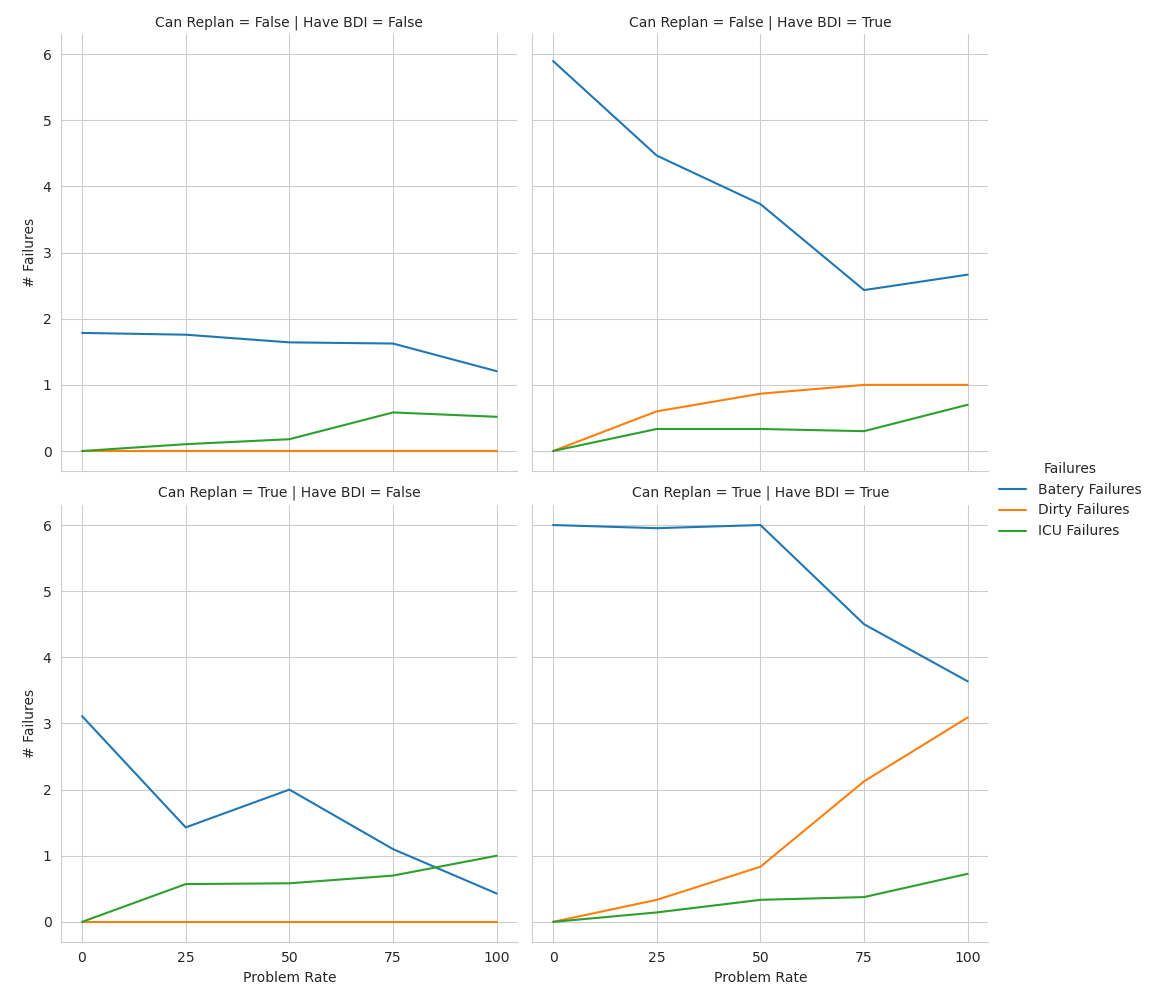
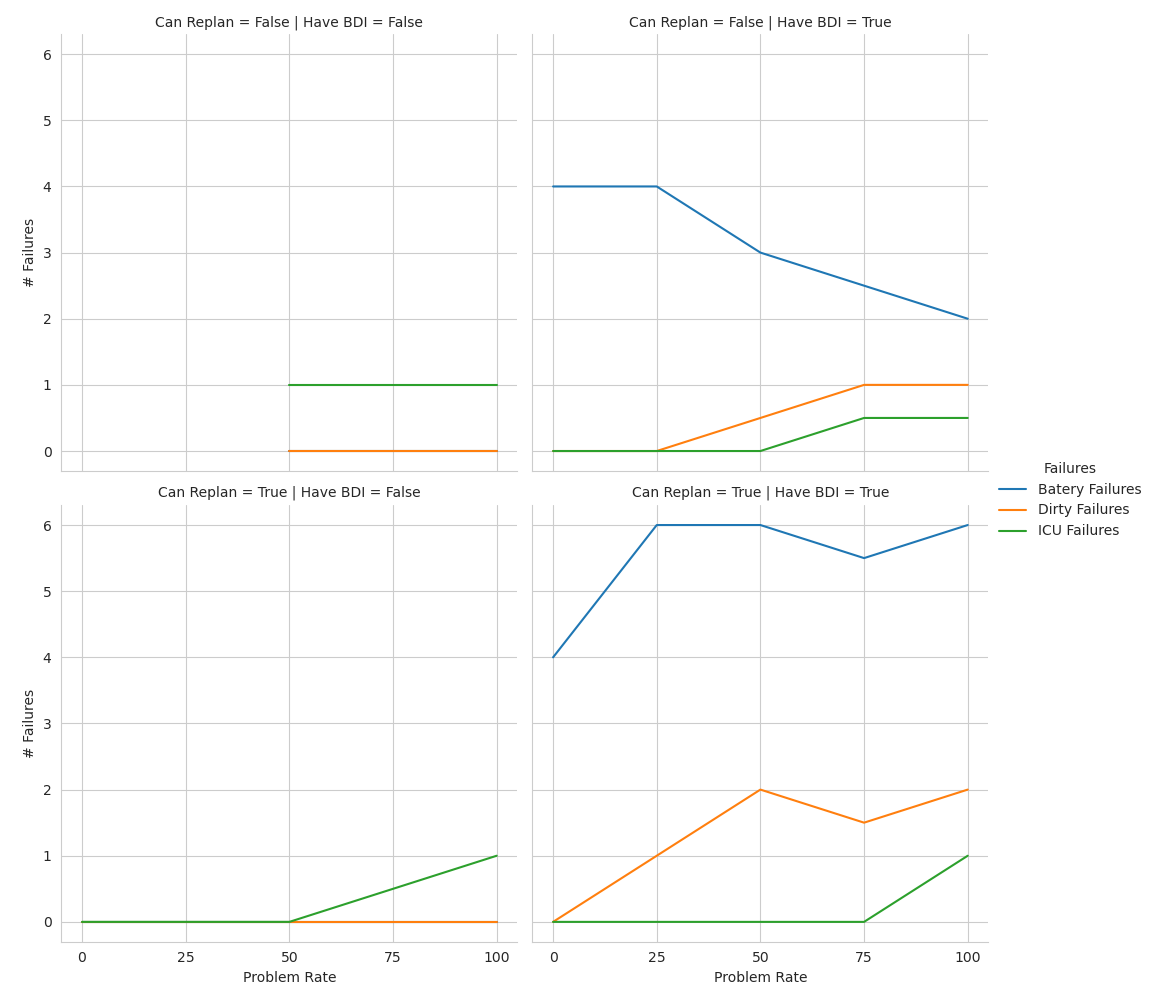
fix false plans

diff --git a/src/coordinator/coordinator/disinfect_coordinator_node.py b/src/coordinator/coordinator/disinfect_coordinator_node.py
@@ -124,6 +124,8 @@ class Coordinator(AgnosticCoordinator):
     def get_team(self, trigger) -> List[MissionRobot]:
         free_uvdrobot = next((robot for robot in self.uvdrobot if robot.status == RobotStatus.READY), None)
         free_spotrobot = next((robot for robot in self.spotrobot if robot.status == RobotStatus.READY), None)
+
+        time.sleep(1)
         
         if free_uvdrobot is not None and free_spotrobot is not None:
             nurse_name = next(
@@ -213,6 +215,9 @@ class Coordinator(AgnosticCoordinator):
                 self.stop_low_priority_mission()
                 time.sleep(1)
                 team = self.get_team(room)
+                if(team == None):
+                    self.get_logger().info("Cant make team")
+                    return
                 start_context = self.get_start_context(team, room)
                 self.create_mission(team, start_context, room)
             self.create_empty_mission(room)

diff --git a/src/murosa_plan/murosa_plan/agent.py b/src/murosa_plan/murosa_plan/agent.py
@@ -75,6 +75,13 @@ class Agent(Node):
         self.agentName = response.response
         self.get_logger().info('response.response %s' % (response.response))
         self.get_logger().info('My name is %s' % (self.agentName))
+        if not self.should_use_bdi:
+            self.send_ready()
+
+    def send_ready(self):
+        msg = String()
+        msg.data = FIPAMessage(FIPAPerformative.REQUEST.value, self.agentName, 'Coordinator', 'Ready').encode()
+        self.publisher_coordinator.publish(msg)
 
     def registration(self):
         # Create FIPA message
@@ -140,7 +147,6 @@ class Agent(Node):
         msg = String()
         msg.data = FIPAMessage(FIPAPerformative.REQUEST.value, self.agentName, 'Coordinator', 'Finished').encode()
         self.publisher_coordinator.publish(msg)
-
 
     def is_for_me(self, msg):
         return msg.receiver == self.agentName

diff --git a/run_simulation_disinfect.py b/run_simulation_disinfect.py
@@ -353,7 +353,7 @@ def write_summary(results_list, mission, problem_rate, replan, bdi):
 def main():
     Path("logsdisinfect").mkdir(exist_ok=True)
     run_number = 1
-    executions = 30
+    executions = 2
     missions = ["disinfect"]
     problem_rates = [0, 25, 50, 75, 100]
     replan_values = [True, False]

diff --git a/src/coordinator/coordinator/agnostic_coordinator.py b/src/coordinator/coordinator/agnostic_coordinator.py
@@ -147,6 +147,7 @@ class AgnosticCoordinator(Node):
         return False
     
     def finish_mission(self, finished_mission: Mission):
+        self.get_logger().info("Mission Completed")
         self.missions.remove(finished_mission)
         if(len(self.missions) == 0):
             self.end_simulation()

diff --git a/Readme.md b/Readme.md
@@ -31,5 +31,5 @@ Then source the build, set the ENV variables REPLAN and PROBLEM_RATE, run the co
 ### Desinfect
 BDI not implemented and needed.
 
-```BDI=True REPLAN=True ros2 launch coordinator disinfect.launch.py```
-```BDI=True PROBLEM_RATE=100 ros2 launch murosa_plan disinfect.launch.py```
+```BDI=False REPLAN=False ros2 launch coordinator disinfect.launch.py```
+```BDI=False PROBLEM_RATE=0 ros2 launch murosa_plan disinfect.launch.py```
